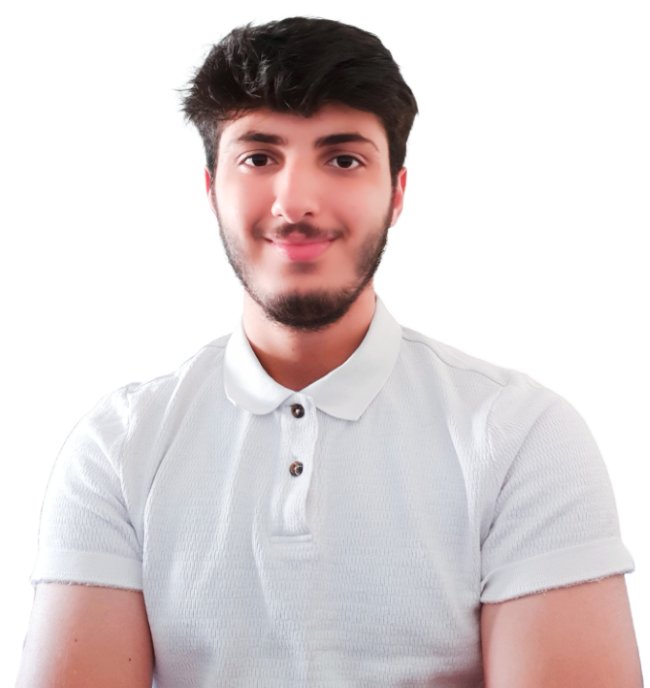
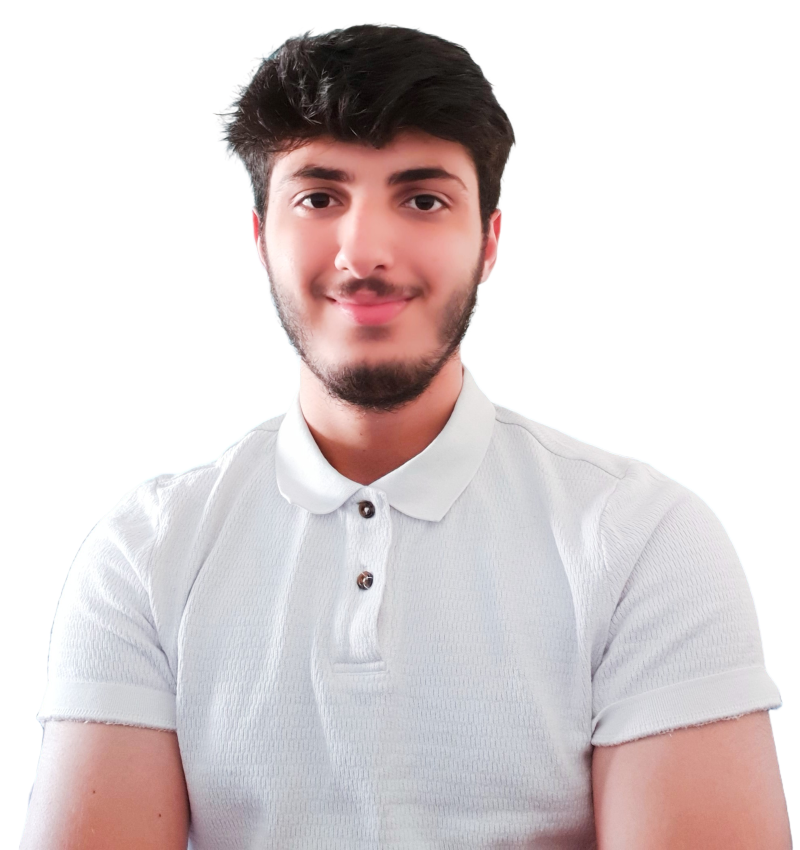
style: improve hero section

diff --git a/src/app/main/hero/hero.component.scss b/src/app/main/hero/hero.component.scss
@@ -72,31 +72,32 @@
   &__img {
     position: absolute;
     left: 50%;
-    top: -4.1rem;
+    top: -7rem;
     transform: translateX(-50%);
+    width: 74rem;
 
     @media (max-width: $Desktop) {
-      width: 45rem;
+      width: 60rem;
     }
 
     @media (max-width: $TabLand) {
-      width: 35rem;
+      width: 38rem;
     }
 
     @media (max-width: $TabPort) {
-      top: 6%;
+      top: 1%;
       border-radius: 200px;
     }
 
     @media (max-width: $Phone) {
       width: 30rem;
-      top: 3.5%;
+      top: 4%;
     }
   }
 
   &__bg-shape {
     @media (max-width: $Desktop) {
-      width: 40rem;
+      width: 45rem;
     }
 
     @media (max-width: $TabLand) {
@@ -114,6 +115,7 @@
 
   &__title {
     font-size: 8.6rem;
+    white-space: nowrap;
 
     @media (max-width: $Desktop) {
       font-size: 6.2rem;

diff --git a/src/app/main/navbar/navbar.component.scss b/src/app/main/navbar/navbar.component.scss
@@ -3,8 +3,9 @@
 .navbar {
   padding: 1.6rem 2.8rem;
   background-color: $color-primary;
-  margin-top: -2rem;
-  position: relative;
+  margin-top: 4.4rem;
+  top: 0;
+  position: sticky;
   z-index: 999;
 
   @media (max-width: $TabLand) {
